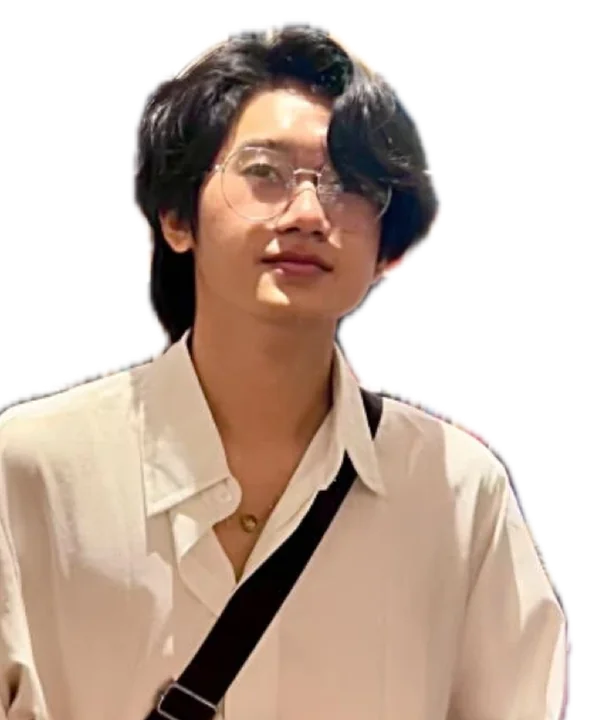
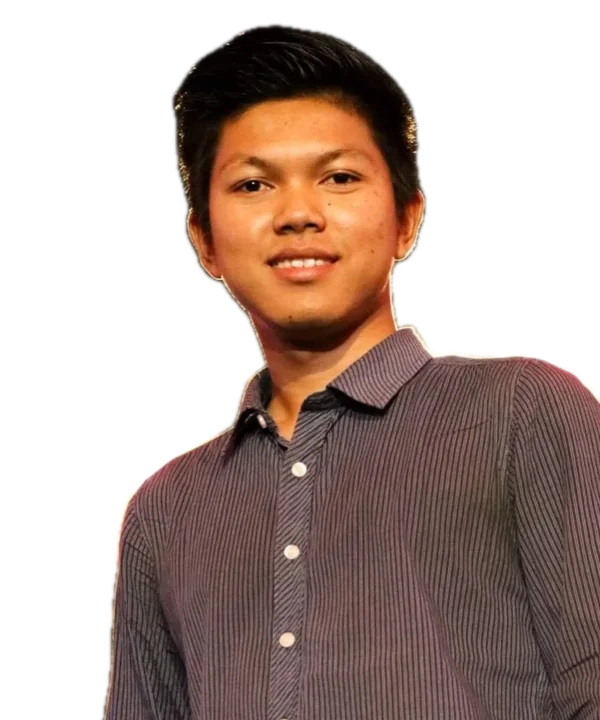
Tech page: swap Aung Myo Tun and Yan Naing Bo photos

diff --git a/tech/index.html b/tech/index.html
@@ -710,7 +710,7 @@ footer{border-top:1px solid var(--line);padding:64px 0 32px}
         </div>
       </article>
       <article class="tcard rv" style="--i:1">
-        <div class="t-photo" style="--c:var(--blue)"><i class="t-blk b1"></i><i class="t-blk b2"></i><img src="/tech/team/aung-myo-tun.webp" alt="Aung Myo Tun" width="600" height="720" loading="lazy"></div>
+        <div class="t-photo" style="--c:var(--blue)"><i class="t-blk b1"></i><i class="t-blk b2"></i><img src="/tech/team/aung-myo-tun.webp?v=2" alt="Aung Myo Tun" width="600" height="720" loading="lazy"></div>
         <div class="t-body">
           <h3>Aung Myo Tun</h3><span class="t-role">Network &amp; AI Automation</span>
           <p>ISP sales, operations and network consultant, and an AI automation professional — covering the connectivity, infrastructure and automated workflows behind our projects.</p>
@@ -719,7 +719,7 @@ footer{border-top:1px solid var(--line);padding:64px 0 32px}
         </div>
       </article>
       <article class="tcard rv" style="--i:2">
-        <div class="t-photo" style="--c:var(--orange)"><i class="t-blk b1"></i><i class="t-blk b2"></i><img src="/tech/team/yan-naing-bo.webp" alt="Yan Naing Bo" width="600" height="720" loading="lazy"></div>
+        <div class="t-photo" style="--c:var(--orange)"><i class="t-blk b1"></i><i class="t-blk b2"></i><img src="/tech/team/yan-naing-bo.webp?v=2" alt="Yan Naing Bo" width="600" height="720" loading="lazy"></div>
         <div class="t-body">
           <h3>Yan Naing Bo</h3><span class="t-role">Senior UI/UX Designer</span>
           <p>Senior UI/UX designer with a background in full-stack development and graphic design — so the interfaces we design are ones our developers can build.</p>
